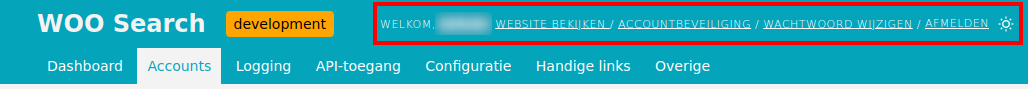
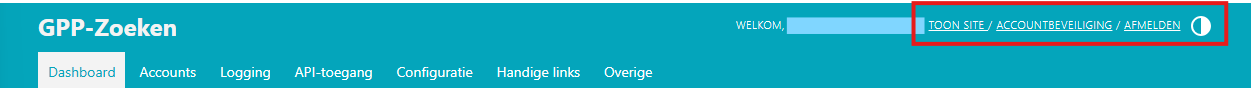
Merge pull request #116 from GPP-Woo/PO-writing-documentation
Fix copy-paste errors from publicatiebank -> zoeken

diff --git a/docs/admin/api_access.rst b/docs/admin/api_access.rst
@@ -14,12 +14,13 @@ Applicatie-API-Keys
 Toelichting
 ~~~~~~~~~~~
 
-De GPP-Publicatiebank biedt een API aan voor andere applicaties (zoals de GPP-App) om
-te koppelen. Hiermee kunnen publicaties beheerd en opgehaald worden. Dergelijke APIs
-dienen beveiligd te worden zodat enkel bedoelde applicaties toegang hebben, ook als
+Het GPP-Zoeken biedt een API aan voor andere applicaties (zoals de GPP-publicatiebank en het GPP-burgerportaal) om
+te koppelen. Hiermee kunnen o.a. publicaties en documenten aangeboden worden ter indexering. 
+Ook kunnen hier op basis van een zoekvraag relevante zoekresultaten worden opgehaald. 
+Dergelijke APIs dienen beveiligd te worden zodat enkel bedoelde applicaties toegang hebben, ook als
 het openbare publicaties betreft.
 
-In de GPP-Publicatiebank kan je applicaties registreren met een toegangssleutel zodat je
+In het GPP-Zoeken kan je applicaties registreren met een toegangssleutel zodat je
 de API-toegang kan controleren.
 
 .. tip:: Behandel de toegangssleutels als wachtwoorden - je hebt enkel deze sleutel
@@ -32,7 +33,7 @@ In het beheerscherm van de applicatie-API-keys zie je een lijst van applicaties 
 toegang hebben. De contactgegevens (indien bekend) worden afgebeeld.
 
 De eerste kolom bevat de API-key zelf - deze moet je instellen bij de applicatie die
-wenst te koppelen met de GPP-Publicatiebank.
+wenst te koppelen met het GPP-Zoeken.
 
 Op het beheerscherm zijn de volgende acties mogelijk:
 
@@ -57,8 +58,8 @@ velden **dikgedrukt** weergegeven.
 
 * ``Rechten``. Een applicatie kan lees- en/of schrijfrechten hebben. Met leesrechten
   kunnen enkel gegevens opgevraagd worden, met schrijfrechten kunnen ze ook bijgewerkt
-  worden en nieuwe gegevens aangemaakt worden. Een GPP-App heeft beide nodig, een
-  GPP-Burgerportaal heeft enkel leesrechten nodig.
+  worden en nieuwe gegevens aangemaakt worden. De GPP-publicatiebank heeft beide nodig, het
+  GPP-burgerportaal heeft enkel leesrechten nodig.
 * ``Contactpersoon``. Naam van de contactpersoon voor de applicatie die koppelt met
   GPP-Publicatiebank.
 * ``E-mail``. E-mailadres van de contactpersoon.
@@ -74,11 +75,11 @@ wordt. Het is belangrijk om dan zo snel mogelijk misbruik te voorkomen:
 
 **Als je de gebruiker bent van de API-key**
 
-Neem contact op met de beheerders van de GPP-Publicatiebank. Vermeld hierbij om welk
+Neem contact op met de beheerders van het GPP-Zoeken. Vermeld hierbij om welk
 token het gaat, en vanaf welk moment dat deze niet meer veilig was. Je krijgt nadere
-instructies van de GPP-publicatiebankbeheerder.
+instructies van de GPP-Zoeken-beheerder.
 
-**Als je beheerder bent van de GPP-publicatiebank**
+**Als je beheerder bent van het GPP-Zoeken**
 
 De volgorde van de acties is afhankelijk of je door de gebruiker van de API-key
 geïnformeerd bent of niet. Stem in ieder geval af met je contactpersoon! Zorg dat je

diff --git a/docs/admin/logging.rst b/docs/admin/logging.rst
@@ -21,7 +21,7 @@ Audit-logitems worden op dit moment nog niet gebruikt.
 Access attempts
 ---------------
 
-GPP-publicatiebank heeft bescherming tegen het *brute-forcen* van inloggen met lokale
+GPP-Zoeken heeft bescherming tegen het *brute-forcen* van inloggen met lokale
 gebruikersaccounts. Als onderdeel daarvan worden inlogpogingen vastgelegd.
 
 .. warning:: Dit onderdeel behoort tot de geavanceerde/technische functies en bevat
@@ -31,7 +31,7 @@ gebruikersaccounts. Als onderdeel daarvan worden inlogpogingen vastgelegd.
 Access failures
 ---------------
 
-GPP-publicatiebank heeft bescherming tegen het *brute-forcen* van inloggen met lokale
+GPP-Zoeken heeft bescherming tegen het *brute-forcen* van inloggen met lokale
 gebruikersaccounts. Als onderdeel daarvan worden mislukte inlogpogingen vastgelegd.
 
 .. warning:: Dit onderdeel behoort tot de geavanceerde/technische functies en bevat
@@ -41,7 +41,7 @@ gebruikersaccounts. Als onderdeel daarvan worden mislukte inlogpogingen vastgele
 Access logs
 -----------
 
-GPP-publicatiebank heeft bescherming tegen het *brute-forcen* van inloggen met lokale
+GPP-Zoeken heeft bescherming tegen het *brute-forcen* van inloggen met lokale
 gebruikersaccounts. Als onderdeel daarvan worden geslaagde inlogpogingen vastgelegd,
 ook als je met een organisatie-account inlogt.
 
@@ -52,7 +52,7 @@ ook als je met een organisatie-account inlogt.
 Uitgaande request-logs
 ----------------------
 
-De GPP-publicatiebank koppelt zelf ook met achterliggende systemen. Wanneer het
+De GPP-Zoeken koppelt mogelijk zelf ook met achterliggende systemen. Wanneer het
 netwerkverkeer naar deze systemen gelogd wordt, dan is dit hier in te zien.
 
 .. warning:: Dit onderdeel behoort tot de geavanceerde/technische functies en bevat

diff --git a/docs/admin/index.rst b/docs/admin/index.rst
@@ -13,7 +13,7 @@ Hoe krijg ik toegang?
 Volg de volgende stappen om toegang te krijgen tot de Admin-omgeving:
 
 1. Ga naar de URL waarop het 'GPP-zoeken'-component is geïnstalleerd, bijvoorbeeld https://gpp-zoeken.gemeente.nl/.
-2. Je ziet een webpagina met enige informatie over het component. In het midden staat een grote, rode knop "Beheer". Klik daarop.
+2. Je ziet een webpagina met enige informatie over het component. In het midden staat een grote, rode knop "Beheerinterface". Klik daarop.
 3. Afhankelijk van de lokale inrichting dien je nog handmatig in te loggen, of word je automatisch ingelogd.
 4. Na het inloggen kom je direct terecht op het dashboard van de Admin-omgeving.
 
@@ -22,13 +22,11 @@ Menubalk
 
 Bovenaan de Admin-omgeving staat de menubalk. Deze geeft toegang tot de verschillende beheer-functionaliteiten van het 'GPP-zoeken'-component. Deze onderdelen leggen we hieronder verder uit, maar eerst willen we je nog wijzen op de klikbare links uiterst rechtsboven in de menubalk.
 
-.. todo:: Update image with correct branding
-
 .. image:: menubalk_rechtsboven.png
     :width: 100%
     :alt: Menubalk rechtsboven
 
-* Website bekijken
+* Toon site
    Deze klinkbare link brengt je terug naar de webpagina met enige informatie over het component, zonder uit te loggen.
 
 * Accountbeveiliging
@@ -62,8 +60,8 @@ Klik verder om meer te leren over de volgende onderdelen:
    :maxdepth: 1
 
    accounts
-   api_access
    logging
+   api_access
    configuratie
    handige_links
    overige

diff --git a/docs/admin/handige_links.rst b/docs/admin/handige_links.rst
@@ -3,7 +3,7 @@
 Handige links
 =============
 
-Onder het menu-item "Handige links" en op het dashboard onder het kopje "Handige links" wordt toegang geboden tot enkele bronnen waar meer informatie is te vinden over de Woo-publicatiebank, te weten:
+Onder het menu-item "Handige links" en op het dashboard onder het kopje "Handige links" wordt toegang geboden tot enkele bronnen waar meer informatie is te vinden over het GPP-Zoeken, te weten:
 
 * Een link naar de huidige **API-documentatie**,
 * Een link naar het formulier om een **bug te rapporteren**,

diff --git a/docs/introduction/team.rst b/docs/introduction/team.rst
@@ -11,13 +11,17 @@ Initiator
 Financiers
 -----------
 
-Brought together by Dimpact, the following nine municipalities contributed knowledge and financial means:
+Brought together by Dimpact, the following thirteen municipalities contributed knowledge and financial means:
 
+* 's-Hertogenbosch
+* Assen
 * Enschede
 * Groningen
 * Haarlemmermeer
 * Kampen
 * Losser
+* Maashorst
+* Maastricht
 * Rotterdam
 * Sittard-Geleen
 * Waterland

diff --git a/docs/admin/accounts.rst b/docs/admin/accounts.rst
@@ -22,7 +22,7 @@ Beheerscherm
 ~~~~~~~~~~~~
 
 In het beheerscherm van de gebruikers zie je een lijst van personen die toegang hebben
-tot de publicatiebank. Deze lijst toont *alle* gebruikers, ongeacht of je een lokale
+tot het GPP-Zoeken. Deze lijst toont *alle* gebruikers, ongeacht of je een lokale
 gebruikersaccount hebt, of via een organisatie-account inlogt.
 
 Op dit scherm zijn een aantal acties mogelijk:
